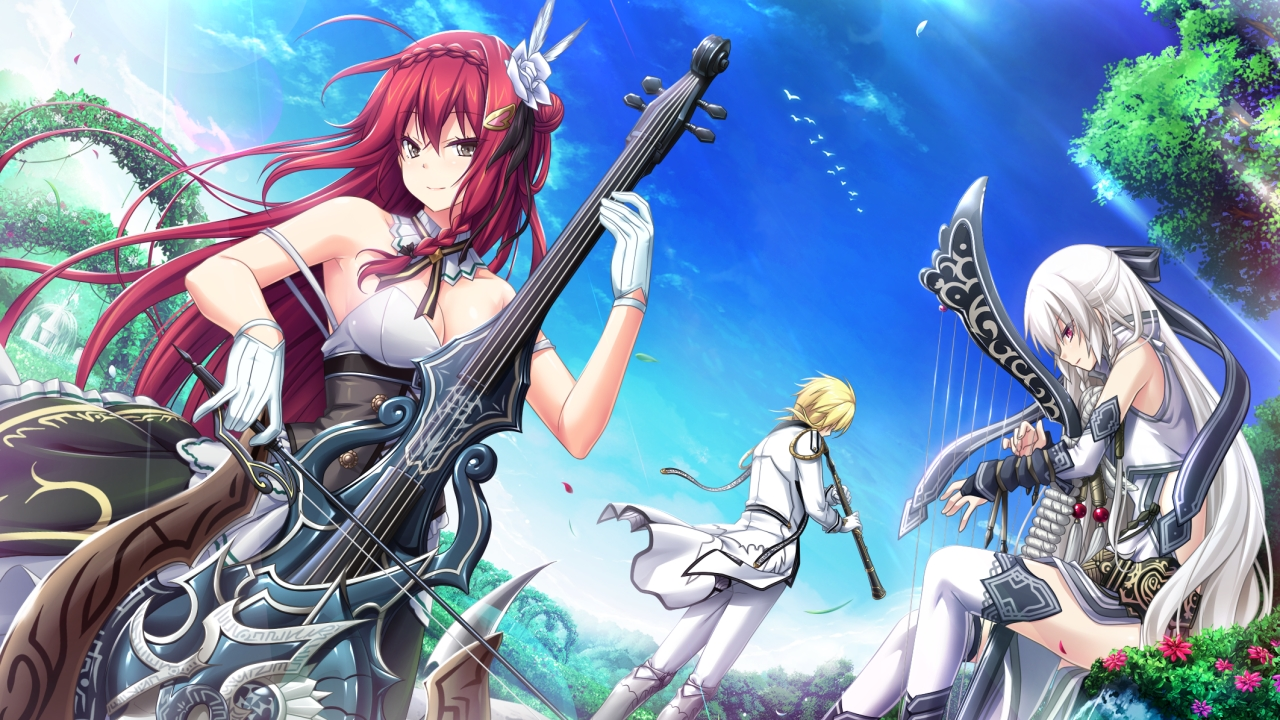
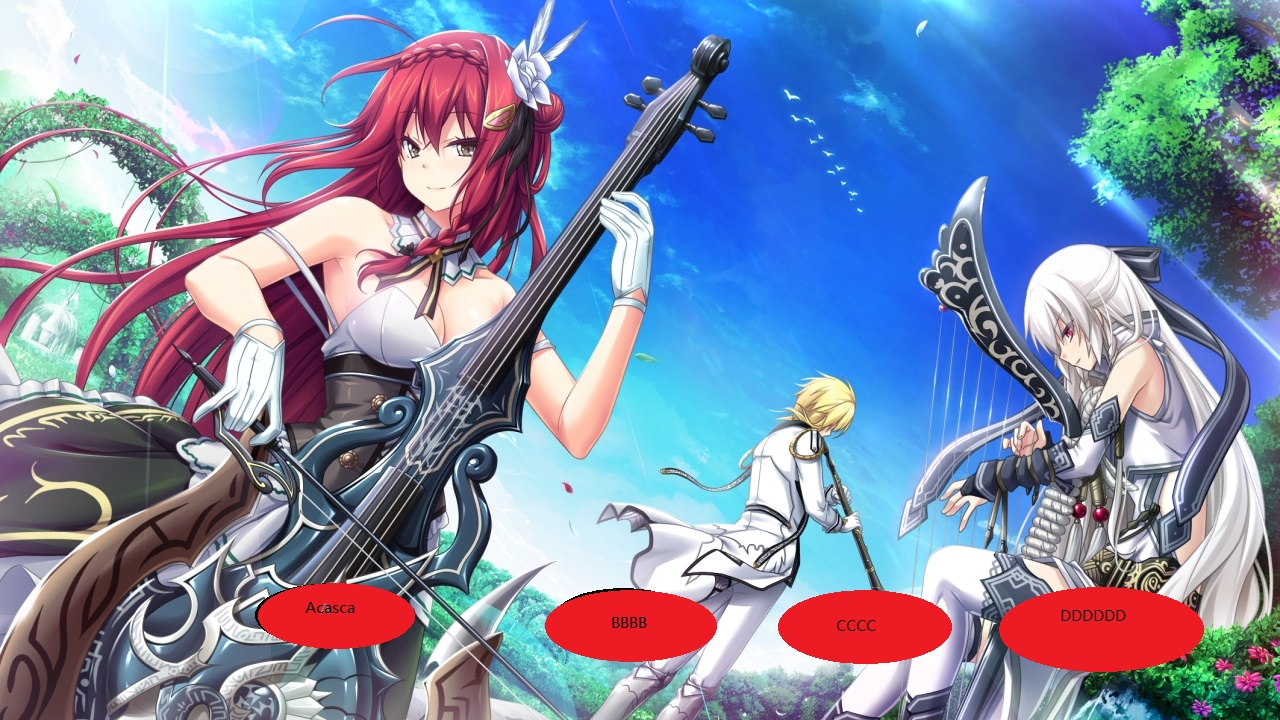
Start Button Done

diff --git a/src/menuPage.py b/src/menuPage.py
@@ -1,0 +1,48 @@
+from tkinter import *
+from PIL import ImageTk, Image
+
+
+class MenuPage(Frame):
+    def __init__(self, master, picLoc, *pargs):
+        
+        Frame.__init__(self, master, *pargs)
+        
+        #set button 1
+        self.but1_image = Image.open("./firstBut.png")
+        self.but1_image_copy = self.but1_image.copy()        
+        #self.but1_image = self.but1_image_copy.resize((150, 50))
+        self.but1_bg_image = ImageTk.PhotoImage(self.but1_image)
+        
+        self.b1 = Button(master,
+                         bd = 0,
+                         text="Game Start",
+                         image=self.but1_bg_image,
+                         compound="center", height=40, width=140,
+                         relief = "sunken",
+                         command = self.bt1)
+        self.b1.place(relx=.25, rely=.85, anchor="c")
+        
+        
+        #set background 1
+        self.image = Image.open(picLoc)
+        self.img_copy= self.image.copy()
+        self.background_image = ImageTk.PhotoImage(self.image)
+
+        self.background = Label(self, image=self.background_image)
+        self.background.pack(fill=BOTH, expand=YES)
+        self.background.bind('<Configure>', self._resize_image)
+
+    def _resize_image(self,event):
+
+        new_width = event.width
+        new_height = event.height
+
+        self.image = self.img_copy.resize((new_width, new_height))
+        self.background_image = ImageTk.PhotoImage(self.image)
+        self.background.configure(image =  self.background_image)
+        
+        
+    def bt1(self):
+        print("Game Start")
+        
+

diff --git a/src/main.py b/src/main.py
@@ -1,21 +1,14 @@
-import tkinter as tk
+# -*- coding: utf-8 -*- 
+from tkinter import *
 from PIL import ImageTk, Image
+from menuPage import *
 
-root = tk.Tk()
+root = Tk()
+root.title("MyGalgame")
+root.geometry('1280x720')
 
-w = tk.Label(root, text="Hello Tkinter!")
-path = "./main.jpg"
-logo = ImageTk.PhotoImage(Image.open(path))
+mP = MenuPage(root, "./main.jpg")
+mP.pack(fill=BOTH, expand=YES)
 
-w1 = tk.Label(root, image=logo).pack(side="right")
-
-explanation = """At present, only GIF and PPM/PGM
-formats are supported, but an interface 
-exists to allow additional image file
-formats to be added easily."""
-
-w2 = tk.Label(root, 
-              justify=tk.LEFT,
-              padx = 10, 
-              text=explanation).pack(side="left")
+root.resizable(0, 0)
 root.mainloop()
